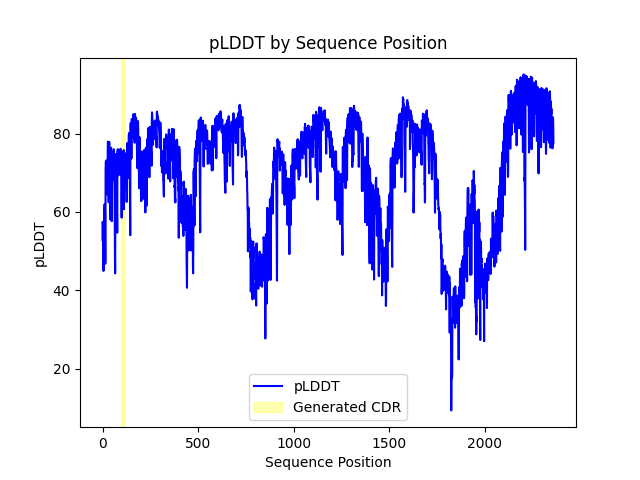
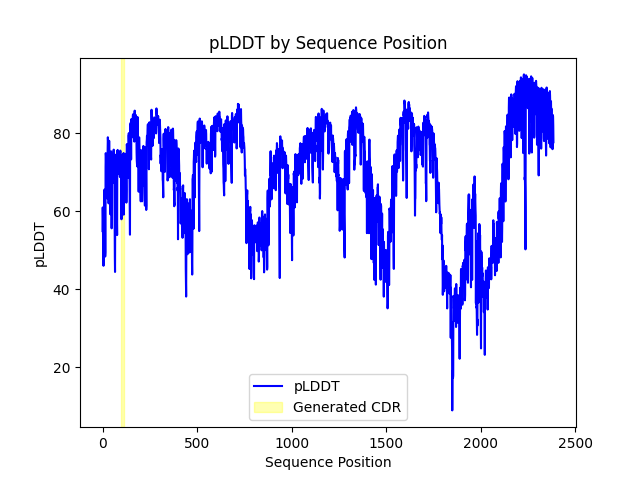
lstm dataloader

diff --git a/src/lstm.py b/src/lstm.py
@@ -1,0 +1,21 @@
+import csv
+import pandas as pd
+
+def load_data():
+    print("Loading data...")
+    
+    trb_gt = pd.read_csv("data/TRB_CDR3_human_VDJdb.tsv",sep='\t')
+    trb_gt = trb_gt[trb_gt["Gene"] == "TRBV"]
+    with open('/home/dnori/tcr_gen/data/TRBV_human_imgt.csv', newline='') as f:
+        reader = csv.DictReader(f)
+        v_map = {row.pop('id'): row.pop('sequence') for row in reader}
+
+    cdr3s = trb_gt["CDR3"].tolist()
+    v_ids = trb_gt["V"].tolist()
+    v_regions = [v_map[v_ids[i].split("*")[0]] for i in range(len(v_ids))]
+
+    return v_regions, cdr3s
+
+if __name__ == "__main__":
+
+    v_regions, cdr3s = load_data()

diff --git a/src/visualize.py b/src/visualize.py
@@ -39,4 +39,4 @@ if __name__ == "__main__":
 
     # make_plddt_histogram('results/plddt_results.csv')
 
-    make_per_protein_plddt_plot('results/structures', 100)
+    make_per_protein_plddt_plot('results/structures', 999)
